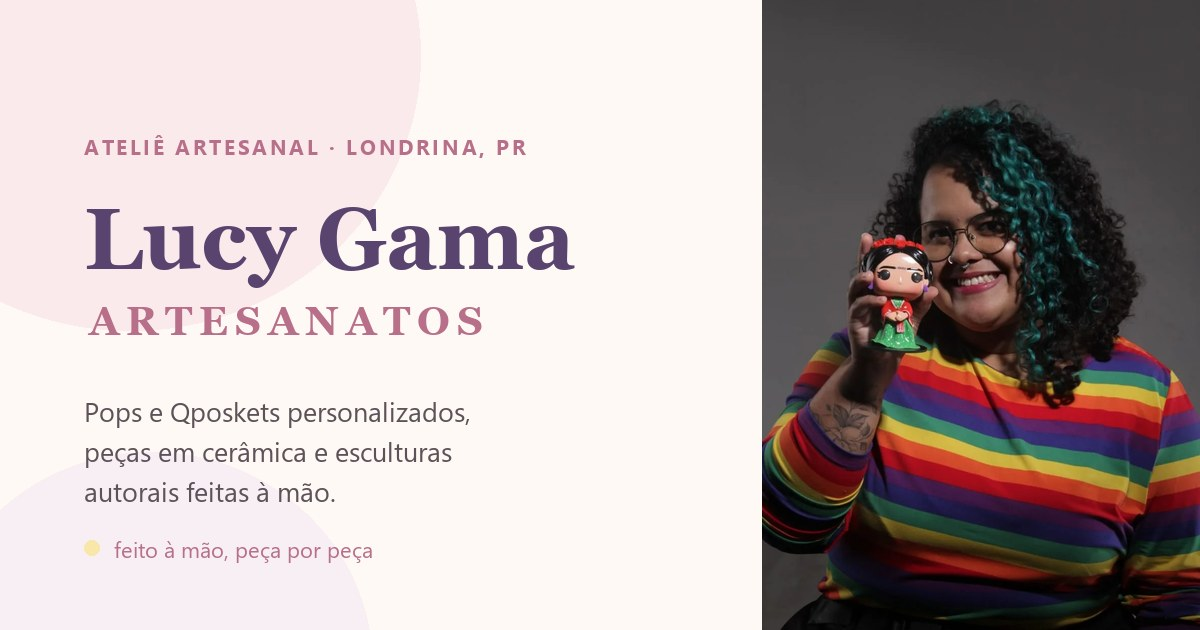
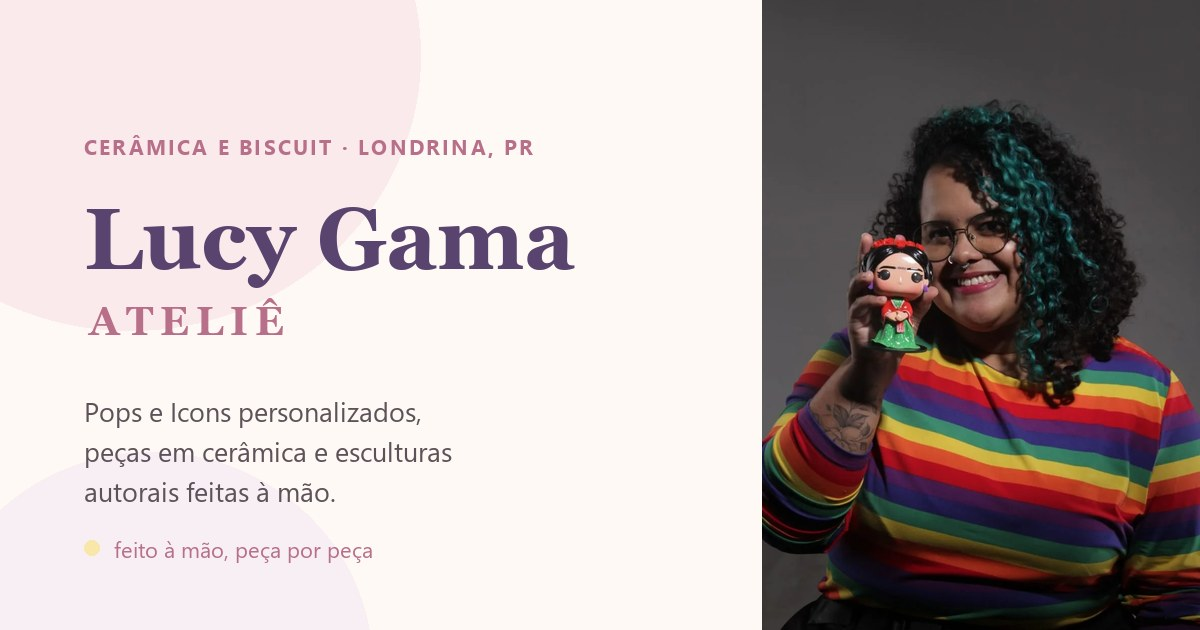
Atualiza telefone, nome do ateliê e selo do hero
1. Telefone: 5543988290831 -> 5543999360866
   14 ocorrências no index.html (13 links de wa.me mais o campo
   telephone do JSON-LD) e 2 no README.

2. Nome: "Lucy Gama Artesanatos" -> "Lucy Gama Ateliê"
   title, og:site_name, og:title, name do JSON-LD, aria-label da marca,
   assinatura do contato e copyright do rodapé. Também nos comentários
   de cabeçalho do CSS e do JS e no README.

   O logo é o nome quebrado em duas linhas, então a segunda acompanha:
   "Lucy Gama / artesanatos" -> "Lucy Gama / ateliê", no cabeçalho e no
   rodapé.

   O domínio lucygamaartesanatos.com.br e o @lucygartesanatos não foram
   tocados: são endereços, não o nome.

3. Selo do hero: "Ateliê artesanal" -> "Cerâmica e Biscuit"

og.jpg regerado: a imagem de preview social trazia "ARTESANATOS" e
"ATELIÊ ARTESANAL" desenhados dentro dela, e ficaria desatualizada em
todo link compartilhado.

Verificado no navegador: 13 links de WhatsApp, todos com o número novo,
nenhuma ocorrência do antigo nem do nome antigo no HTML renderizado.

Changed region(s): [[0.0925, 0.4825, 0.4008, 0.5429], [0.1233, 0.6333, 0.4008, 0.6937], [0.0617, 0.2111, 0.4625, 0.2714]]

diff --git a/index.html b/index.html
@@ -4,14 +4,14 @@
   <meta charset="UTF-8">
   <meta name="viewport" content="width=device-width, initial-scale=1.0">
 
-  <title>Lucy Gama Artesanatos | Pops, Icons, Cerâmica e Esculturas</title>
+  <title>Lucy Gama Ateliê | Pops, Icons, Cerâmica e Esculturas</title>
   <meta name="description" content="Ateliê artesanal em Londrina, PR: Pops e Icons personalizados, peças em cerâmica e esculturas autorais feitas à mão. Fale com a Lucy pelo WhatsApp.">
   <link rel="canonical" href="https://lucygamaartesanatos.com.br">
 
   <meta property="og:type" content="website">
   <meta property="og:locale" content="pt_BR">
-  <meta property="og:site_name" content="Lucy Gama Artesanatos">
-  <meta property="og:title" content="Lucy Gama Artesanatos | Pops, Icons, Cerâmica e Esculturas">
+  <meta property="og:site_name" content="Lucy Gama Ateliê">
+  <meta property="og:title" content="Lucy Gama Ateliê | Pops, Icons, Cerâmica e Esculturas">
   <meta property="og:description" content="Ateliê em Londrina, PR. Pops e Icons personalizados, peças em cerâmica e esculturas autorais feitas à mão. Conte sua ideia pelo WhatsApp.">
   <meta property="og:url" content="https://lucygamaartesanatos.com.br">
   <meta property="og:image" content="https://lucygamaartesanatos.com.br/assets/img/og.jpg">
@@ -31,7 +31,7 @@
   {
     "@context": "https://schema.org",
     "@type": "LocalBusiness",
-    "name": "Lucy Gama Artesanatos",
+    "name": "Lucy Gama Ateliê",
     "description": "Ateliê artesanal em Londrina, PR, de Pops e Icons personalizados, peças em cerâmica e esculturas autorais.",
     "address": {
       "@type": "PostalAddress",
@@ -39,7 +39,7 @@
       "addressRegion": "PR",
       "addressCountry": "BR"
     },
-    "telephone": "+5543988290831",
+    "telephone": "+5543999360866",
     "url": "https://lucygamaartesanatos.com.br",
     "image": "https://lucygamaartesanatos.com.br/assets/img/og.jpg",
     "priceRange": "$$",
@@ -60,9 +60,9 @@
 
   <header class="cabecalho">
     <div class="container cabecalho_conteudo">
-      <a href="#inicio" class="cabecalho_marca" aria-label="Lucy Gama Artesanatos, ir para o início">
+      <a href="#inicio" class="cabecalho_marca" aria-label="Lucy Gama Ateliê, ir para o início">
         <span class="cabecalho_marca_nome">Lucy Gama</span>
-        <span class="cabecalho_marca_tipo">artesanatos</span>
+        <span class="cabecalho_marca_tipo">ateliê</span>
       </a>
 
       <button class="cabecalho_menu_botao" aria-expanded="false" aria-controls="menu-principal" aria-label="Abrir menu">
@@ -75,7 +75,7 @@
         <a href="#processo" class="cabecalho_link">Processo</a>
         <a href="#perguntas" class="cabecalho_link">FAQ</a>
         <a href="#contato" class="cabecalho_link">Contato</a>
-        <a href="https://wa.me/5543988290831?text=Ol%C3%A1%2C%20Lucy%21%20Vi%20o%20site%20do%20ateli%C3%AA%20e%20gostaria%20de%20conversar%20sobre%20uma%20encomenda." target="_blank" rel="noopener" class="botao botao_pequeno cabecalho_cta">Falar no WhatsApp</a>
+        <a href="https://wa.me/5543999360866?text=Ol%C3%A1%2C%20Lucy%21%20Vi%20o%20site%20do%20ateli%C3%AA%20e%20gostaria%20de%20conversar%20sobre%20uma%20encomenda." target="_blank" rel="noopener" class="botao botao_pequeno cabecalho_cta">Falar no WhatsApp</a>
       </nav>
     </div>
   </header>
@@ -89,13 +89,13 @@
 
       <div class="container hero_conteudo">
         <div class="hero_texto">
-          <p class="hero_selo">Ateliê artesanal · feito à&nbsp;mão <span aria-hidden="true">♡</span></p>
+          <p class="hero_selo">Cerâmica e&nbsp;Biscuit · feito à&nbsp;mão <span aria-hidden="true">♡</span></p>
           <h1 class="hero_titulo">Peças que&nbsp;dão&nbsp;forma às&nbsp;suas ideias</h1>
           <p class="hero_subtitulo">Pops e&nbsp;Icons personalizados, peças em&nbsp;cerâmica e&nbsp;esculturas autorais feitas à&nbsp;mão.</p>
           <p class="hero_apoio">Encomendas personalizadas e&nbsp;criações autorais.</p>
 
           <div class="hero_acoes">
-            <a href="https://wa.me/5543988290831?text=Ol%C3%A1%2C%20Lucy%21%20Vi%20o%20site%20do%20ateli%C3%AA%20e%20gostaria%20de%20conversar%20sobre%20uma%20encomenda." target="_blank" rel="noopener" class="botao hero_cta">Falar pelo WhatsApp</a>
+            <a href="https://wa.me/5543999360866?text=Ol%C3%A1%2C%20Lucy%21%20Vi%20o%20site%20do%20ateli%C3%AA%20e%20gostaria%20de%20conversar%20sobre%20uma%20encomenda." target="_blank" rel="noopener" class="botao hero_cta">Falar pelo WhatsApp</a>
             <a href="#portfolio" class="botao botao_secundario">Conhecer as peças</a>
           </div>
 
@@ -144,7 +144,7 @@
               <h3 class="servicos_bloco_titulo">Pops personalizados</h3>
               <p>Transformamos personagens, pessoas, pets e outras referências em peças personalizadas.</p>
               <p>Você pode enviar fotos, referências ou explicar sua ideia, e conversamos sobre as possibilidades para o projeto.</p>
-              <a href="https://wa.me/5543988290831?text=Ol%C3%A1%2C%20Lucy%21%20Vi%20os%20Pops%20personalizados%20e%20gostaria%20de%20saber%20mais%20sobre%20uma%20encomenda." target="_blank" rel="noopener" class="botao botao_pequeno">Quero um Pop personalizado</a>
+              <a href="https://wa.me/5543999360866?text=Ol%C3%A1%2C%20Lucy%21%20Vi%20os%20Pops%20personalizados%20e%20gostaria%20de%20saber%20mais%20sobre%20uma%20encomenda." target="_blank" rel="noopener" class="botao botao_pequeno">Quero um Pop personalizado</a>
             </div>
             <figure class="servicos_bloco_figura">
               <img src="assets/img/servico-pop.webp" alt="Pop personalizado do Dr. Rodolfo, feito à mão em biscuit, ao lado da caixa impressa do ateliê" width="1000" height="800" loading="lazy">
@@ -156,7 +156,7 @@
               <h3 class="servicos_bloco_titulo">Icons personalizados</h3>
               <p>Figuras no formato Icon, com proporção alongada e mais espaço para detalhes de roupa, cabelo e pose.</p>
               <p>Serve tanto para um personagem que você gosta quanto para uma versão sua ou de alguém próximo. Conte a ideia e conversamos sobre o que dá para fazer.</p>
-              <a href="https://wa.me/5543988290831?text=Ol%C3%A1%2C%20Lucy%21%20Vi%20os%20Icons%20personalizados%20e%20gostaria%20de%20saber%20mais%20sobre%20uma%20encomenda." target="_blank" rel="noopener" class="botao botao_pequeno">Quero um Icon personalizado</a>
+              <a href="https://wa.me/5543999360866?text=Ol%C3%A1%2C%20Lucy%21%20Vi%20os%20Icons%20personalizados%20e%20gostaria%20de%20saber%20mais%20sobre%20uma%20encomenda." target="_blank" rel="noopener" class="botao botao_pequeno">Quero um Icon personalizado</a>
             </div>
             <figure class="servicos_bloco_figura">
               <img src="assets/img/servico-icon.webp" alt="Icon personalizado de uma mulher de cabelo cacheado segurando seu cachorro, feito à mão e segurado na palma da mão" width="1000" height="800" loading="lazy">
@@ -168,7 +168,7 @@
               <h3 class="servicos_bloco_titulo">Peças em cerâmica</h3>
               <p>Criações em cerâmica para quem aprecia objetos feitos à mão e peças com características próprias.</p>
               <p>Formas, texturas e acabamentos fazem parte do processo de cada criação.</p>
-              <a href="https://wa.me/5543988290831?text=Ol%C3%A1%2C%20Lucy%21%20Vi%20as%20pe%C3%A7as%20de%20cer%C3%A2mica%20e%20gostaria%20de%20saber%20mais%20sobre%20as%20encomendas." target="_blank" rel="noopener" class="botao botao_pequeno">Ver peças de cerâmica</a>
+              <a href="https://wa.me/5543999360866?text=Ol%C3%A1%2C%20Lucy%21%20Vi%20as%20pe%C3%A7as%20de%20cer%C3%A2mica%20e%20gostaria%20de%20saber%20mais%20sobre%20as%20encomendas." target="_blank" rel="noopener" class="botao botao_pequeno">Ver peças de cerâmica</a>
             </div>
             <figure class="servicos_bloco_figura">
               <img src="assets/img/servico-ceramica.webp" alt="Espremedor de cerâmica feito à mão, com esmalte azul no interior e borda de barro aparente, segurado na mão" width="1000" height="800" loading="lazy">
@@ -180,7 +180,7 @@
               <h3 class="servicos_bloco_titulo">Esculturas autorais</h3>
               <p>Peças desenvolvidas a partir de uma proposta artística própria, explorando formas, personagens e ideias do universo do ateliê.</p>
               <p>Também podemos conversar sobre projetos personalizados de escultura.</p>
-              <a href="https://wa.me/5543988290831?text=Ol%C3%A1%2C%20Lucy%21%20Gostaria%20de%20conversar%20sobre%20uma%20escultura." target="_blank" rel="noopener" class="botao botao_pequeno">Conversar sobre uma escultura</a>
+              <a href="https://wa.me/5543999360866?text=Ol%C3%A1%2C%20Lucy%21%20Gostaria%20de%20conversar%20sobre%20uma%20escultura." target="_blank" rel="noopener" class="botao botao_pequeno">Conversar sobre uma escultura</a>
             </div>
             <figure class="servicos_bloco_figura">
               <img src="assets/img/servico-escultura.webp" alt="Escultura autoral de uma cabeça barbada, pintada à mão em azul, verde e branco, sobre a bancada do ateliê" width="900" height="720" loading="lazy">
@@ -362,7 +362,7 @@
         </div>
 
         <div class="portfolio_rodape" data-anim="revelar">
-          <a href="https://wa.me/5543988290831?text=Ol%C3%A1%2C%20Lucy%21%20Vi%20as%20pe%C3%A7as%20no%20site%20e%20gostaria%20de%20conversar%20sobre%20uma%20encomenda." target="_blank" rel="noopener" class="botao">Falar pelo WhatsApp</a>
+          <a href="https://wa.me/5543999360866?text=Ol%C3%A1%2C%20Lucy%21%20Vi%20as%20pe%C3%A7as%20no%20site%20e%20gostaria%20de%20conversar%20sobre%20uma%20encomenda." target="_blank" rel="noopener" class="botao">Falar pelo WhatsApp</a>
         </div>
       </div>
     </section>
@@ -437,7 +437,7 @@
         </ol>
 
         <div class="processo_rodape" data-anim="revelar">
-          <a href="https://wa.me/5543988290831?text=Ol%C3%A1%2C%20Lucy%21%20Gostaria%20de%20pedir%20um%20or%C3%A7amento%20para%20uma%20pe%C3%A7a." target="_blank" rel="noopener" class="botao">Pedir orçamento</a>
+          <a href="https://wa.me/5543999360866?text=Ol%C3%A1%2C%20Lucy%21%20Gostaria%20de%20pedir%20um%20or%C3%A7amento%20para%20uma%20pe%C3%A7a." target="_blank" rel="noopener" class="botao">Pedir orçamento</a>
         </div>
       </div>
     </section>
@@ -452,7 +452,7 @@
         <h2 class="convite_titulo">Tem uma ideia em mente?</h2>
         <p class="convite_subtitulo">Conte para a Lucy.</p>
         <p class="convite_texto">Pode ser uma foto, um personagem, uma lembrança ou simplesmente uma ideia que você gostaria de transformar em uma peça.</p>
-        <a href="https://wa.me/5543988290831?text=Ol%C3%A1%2C%20Lucy%21%20Tenho%20uma%20ideia%20em%20mente%20e%20gostaria%20de%20conversar%20sobre%20uma%20pe%C3%A7a." target="_blank" rel="noopener" class="botao botao_claro">
+        <a href="https://wa.me/5543999360866?text=Ol%C3%A1%2C%20Lucy%21%20Tenho%20uma%20ideia%20em%20mente%20e%20gostaria%20de%20conversar%20sobre%20uma%20pe%C3%A7a." target="_blank" rel="noopener" class="botao botao_claro">
           <span class="icone_whats" aria-hidden="true"></span> Enviar minha ideia
         </a>
       </div>
@@ -591,7 +591,7 @@
         </div>
 
         <div class="faq_rodape" data-anim="revelar">
-          <a href="https://wa.me/5543988290831?text=Ol%C3%A1%2C%20Lucy%21%20Gostaria%20de%20pedir%20um%20or%C3%A7amento%20para%20uma%20pe%C3%A7a." target="_blank" rel="noopener" class="botao">Falar pelo WhatsApp</a>
+          <a href="https://wa.me/5543999360866?text=Ol%C3%A1%2C%20Lucy%21%20Gostaria%20de%20pedir%20um%20or%C3%A7amento%20para%20uma%20pe%C3%A7a." target="_blank" rel="noopener" class="botao">Falar pelo WhatsApp</a>
         </div>
       </div>
     </section>
@@ -604,10 +604,10 @@
       <div class="container contato_conteudo" data-anim="revelar">
         <h2 class="contato_titulo">Vamos criar algo juntos?</h2>
         <p class="contato_subtitulo">Sua ideia pode começar com uma mensagem.</p>
-        <a href="https://wa.me/5543988290831?text=Ol%C3%A1%2C%20Lucy%21%20Vi%20o%20site%20do%20ateli%C3%AA%20e%20gostaria%20de%20conversar%20sobre%20uma%20encomenda." target="_blank" rel="noopener" class="botao botao_grande">
+        <a href="https://wa.me/5543999360866?text=Ol%C3%A1%2C%20Lucy%21%20Vi%20o%20site%20do%20ateli%C3%AA%20e%20gostaria%20de%20conversar%20sobre%20uma%20encomenda." target="_blank" rel="noopener" class="botao botao_grande">
           <span class="icone_whats" aria-hidden="true"></span> Falar com a Lucy pelo WhatsApp
         </a>
-        <p class="contato_marca">Lucy Gama Artesanatos</p>
+        <p class="contato_marca">Lucy Gama Ateliê</p>
         <p class="contato_linha">Pops · Icons · Cerâmica · Esculturas</p>
       </div>
     </section>
@@ -618,7 +618,7 @@
     <div class="container rodape_conteudo">
       <a href="#inicio" class="rodape_marca">
         <span class="cabecalho_marca_nome">Lucy Gama</span>
-        <span class="cabecalho_marca_tipo">artesanatos</span>
+        <span class="cabecalho_marca_tipo">ateliê</span>
       </a>
 
       <nav class="rodape_nav" aria-label="Navegação do rodapé">
@@ -630,19 +630,19 @@
       </nav>
 
       <div class="rodape_contato">
-        <a href="https://wa.me/5543988290831?text=Ol%C3%A1%2C%20Lucy%21%20Vi%20o%20site%20do%20ateli%C3%AA%20e%20gostaria%20de%20conversar%20sobre%20uma%20encomenda." target="_blank" rel="noopener">WhatsApp</a>
+        <a href="https://wa.me/5543999360866?text=Ol%C3%A1%2C%20Lucy%21%20Vi%20o%20site%20do%20ateli%C3%AA%20e%20gostaria%20de%20conversar%20sobre%20uma%20encomenda." target="_blank" rel="noopener">WhatsApp</a>
         <a href="https://www.instagram.com/lucygartesanatos" target="_blank" rel="noopener">Instagram</a>
       </div>
     </div>
 
     <p class="rodape_creditos">
       <span class="rodape_local">Londrina · Paraná</span>
-      © 2026 Lucy Gama Artesanatos. Todos os direitos reservados.
+      © 2026 Lucy Gama Ateliê. Todos os direitos reservados.
     </p>
   </footer>
 
   <!-- Botão fixo: barra inferior no celular, botão flutuante no desktop -->
-  <a class="whats_fixo" href="https://wa.me/5543988290831?text=Ol%C3%A1%2C%20Lucy%21%20Vi%20o%20site%20do%20ateli%C3%AA%20e%20gostaria%20de%20conversar%20sobre%20uma%20encomenda." target="_blank" rel="noopener">
+  <a class="whats_fixo" href="https://wa.me/5543999360866?text=Ol%C3%A1%2C%20Lucy%21%20Vi%20o%20site%20do%20ateli%C3%AA%20e%20gostaria%20de%20conversar%20sobre%20uma%20encomenda." target="_blank" rel="noopener">
     <span class="icone_whats" aria-hidden="true"></span>
     <span class="whats_fixo_texto">Falar com a Lucy</span>
   </a>

diff --git a/assets/js/main.js b/assets/js/main.js
@@ -1,5 +1,5 @@
 /* =========================================================
-   Lucy Gama Artesanatos
+   Lucy Gama Ateliê
    A página funciona inteira sem este arquivo.
    Aqui só tem comportamento e movimento.
    ========================================================= */

diff --git a/assets/css/style.css b/assets/css/style.css
@@ -1,5 +1,5 @@
 /* =========================================================
-   Lucy Gama Artesanatos
+   Lucy Gama Ateliê
    Mobile-first. Todos os valores vêm dos tokens do :root.
    ========================================================= */
 

diff --git a/README.md b/README.md
@@ -1,6 +1,6 @@
-# Lucy Gama Artesanatos
+# Lucy Gama Ateliê
 
-Landing page do ateliê Lucy Gama Artesanatos — Pops e Icons personalizados, peças em cerâmica e esculturas autorais. Objetivo único da página: gerar conversas no WhatsApp.
+Landing page do ateliê Lucy Gama Ateliê — Pops e Icons personalizados, peças em cerâmica e esculturas autorais. Objetivo único da página: gerar conversas no WhatsApp.
 
 HTML, CSS e JavaScript puros. GSAP por CDN. Sem build, sem npm: dá para abrir o `index.html` com dois cliques e publicar direto na Vercel.
 
@@ -21,8 +21,8 @@ lucy-gama-artesanatos/
 
 ## O que trocar antes de publicar
 
-1. **Número do WhatsApp** — está como `5543988290831` (o número informado, `43 8829-0831`, com o 9 de celular na frente). Confira e, se precisar, troque tudo de uma vez:
-   `find . -name "*.html" -exec sed -i '' 's/5543988290831/55SEUNUMERO/g' {} +`
+1. **Número do WhatsApp** — está como `5543999360866` (o número informado, `43 8829-0831`, com o 9 de celular na frente). Confira e, se precisar, troque tudo de uma vez:
+   `find . -name "*.html" -exec sed -i '' 's/5543999360866/55SEUNUMERO/g' {} +`
 2. **Fotos** — já são fotos reais: `hero.webp` (Lucy com o Pop da Frida), `lucy-atelie.webp` (Lucy modelando em argila), `servico-pop.webp` (Pop do Dr. Rodolfo), `servico-icon.webp`, `servico-ceramica.webp` e `servico-escultura.webp`. Os quatro blocos de serviço já estão com foto real. O resto de `assets/img/` ainda é placeholder gráfico na paleta da marca — faltam as 12 peças do portfólio e o fundo do CTA final. Substitua pelos arquivos reais em WebP mantendo os mesmos nomes, ou atualize o `src`, o `alt`, o `width` e o `height` no HTML — as dimensões declaradas evitam o pulo de layout que o Core Web Vitals penaliza.
 3. **Domínio** — trocar `https://lucygamaartesanatos.com.br` no `canonical`, no Open Graph, no JSON-LD e no `robots.txt`.
 4. **Instagram** — `https://www.instagram.com/lucygartesanatos`, no rodapé e no `sameAs` do JSON-LD.
@@ -35,7 +35,7 @@ lucy-gama-artesanatos/
 ```bash
 git init
 git add .
-git commit -m "Landing page Lucy Gama Artesanatos"
+git commit -m "Landing page Lucy Gama Ateliê"
 git branch -M main
 git remote add origin git@github.com:USUARIO/lucy-gama-artesanatos.git
 git push -u origin main
